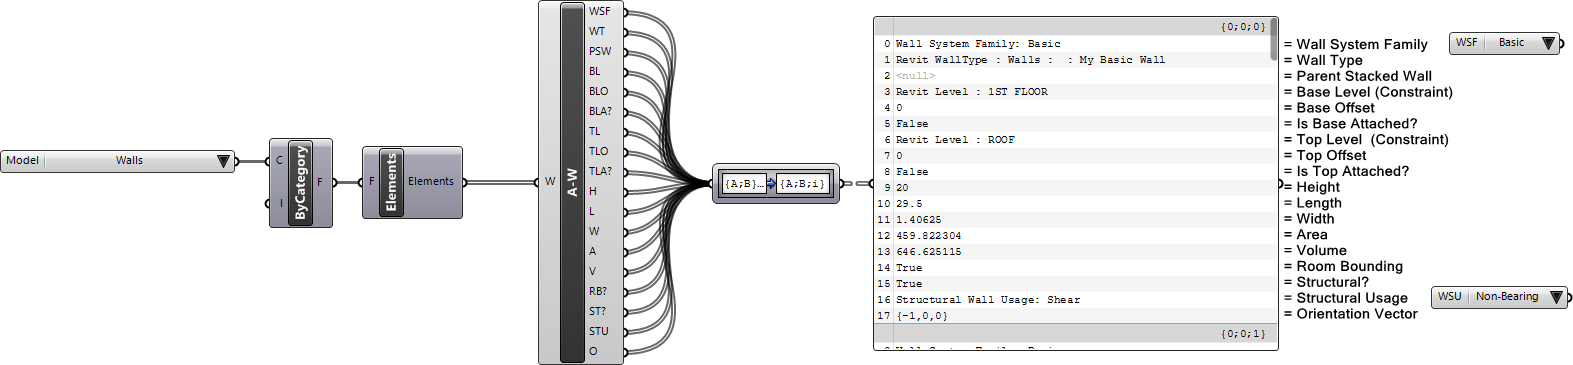
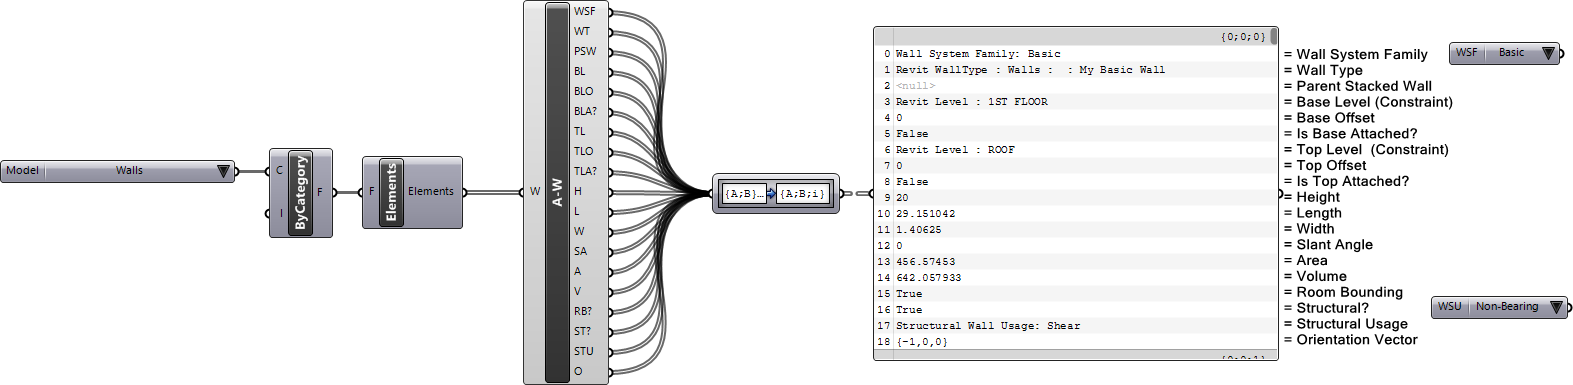
wiki update

diff --git a/docs/pages/_en/beta/guides/revit-walls.md b/docs/pages/_en/beta/guides/revit-walls.md
@@ -96,6 +96,8 @@ Use the {% include ltr/comp.html uuid="1169ceb6-" %} component shown here, to gr
 
 ![]({{ "/static/images/guides/revit-walls11.png" | prepend: site.baseurl }})
 
+{% include ltr/api_note.html note="Slant Angle property is only supported on Revit >= 2021" %}
+
 The example below uses the shared *Wall Structural Usage* value list component to filter for **Shear** walls:
 
 ![]({{ "/static/images/guides/revit-walls12.png" | prepend: site.baseurl }})
